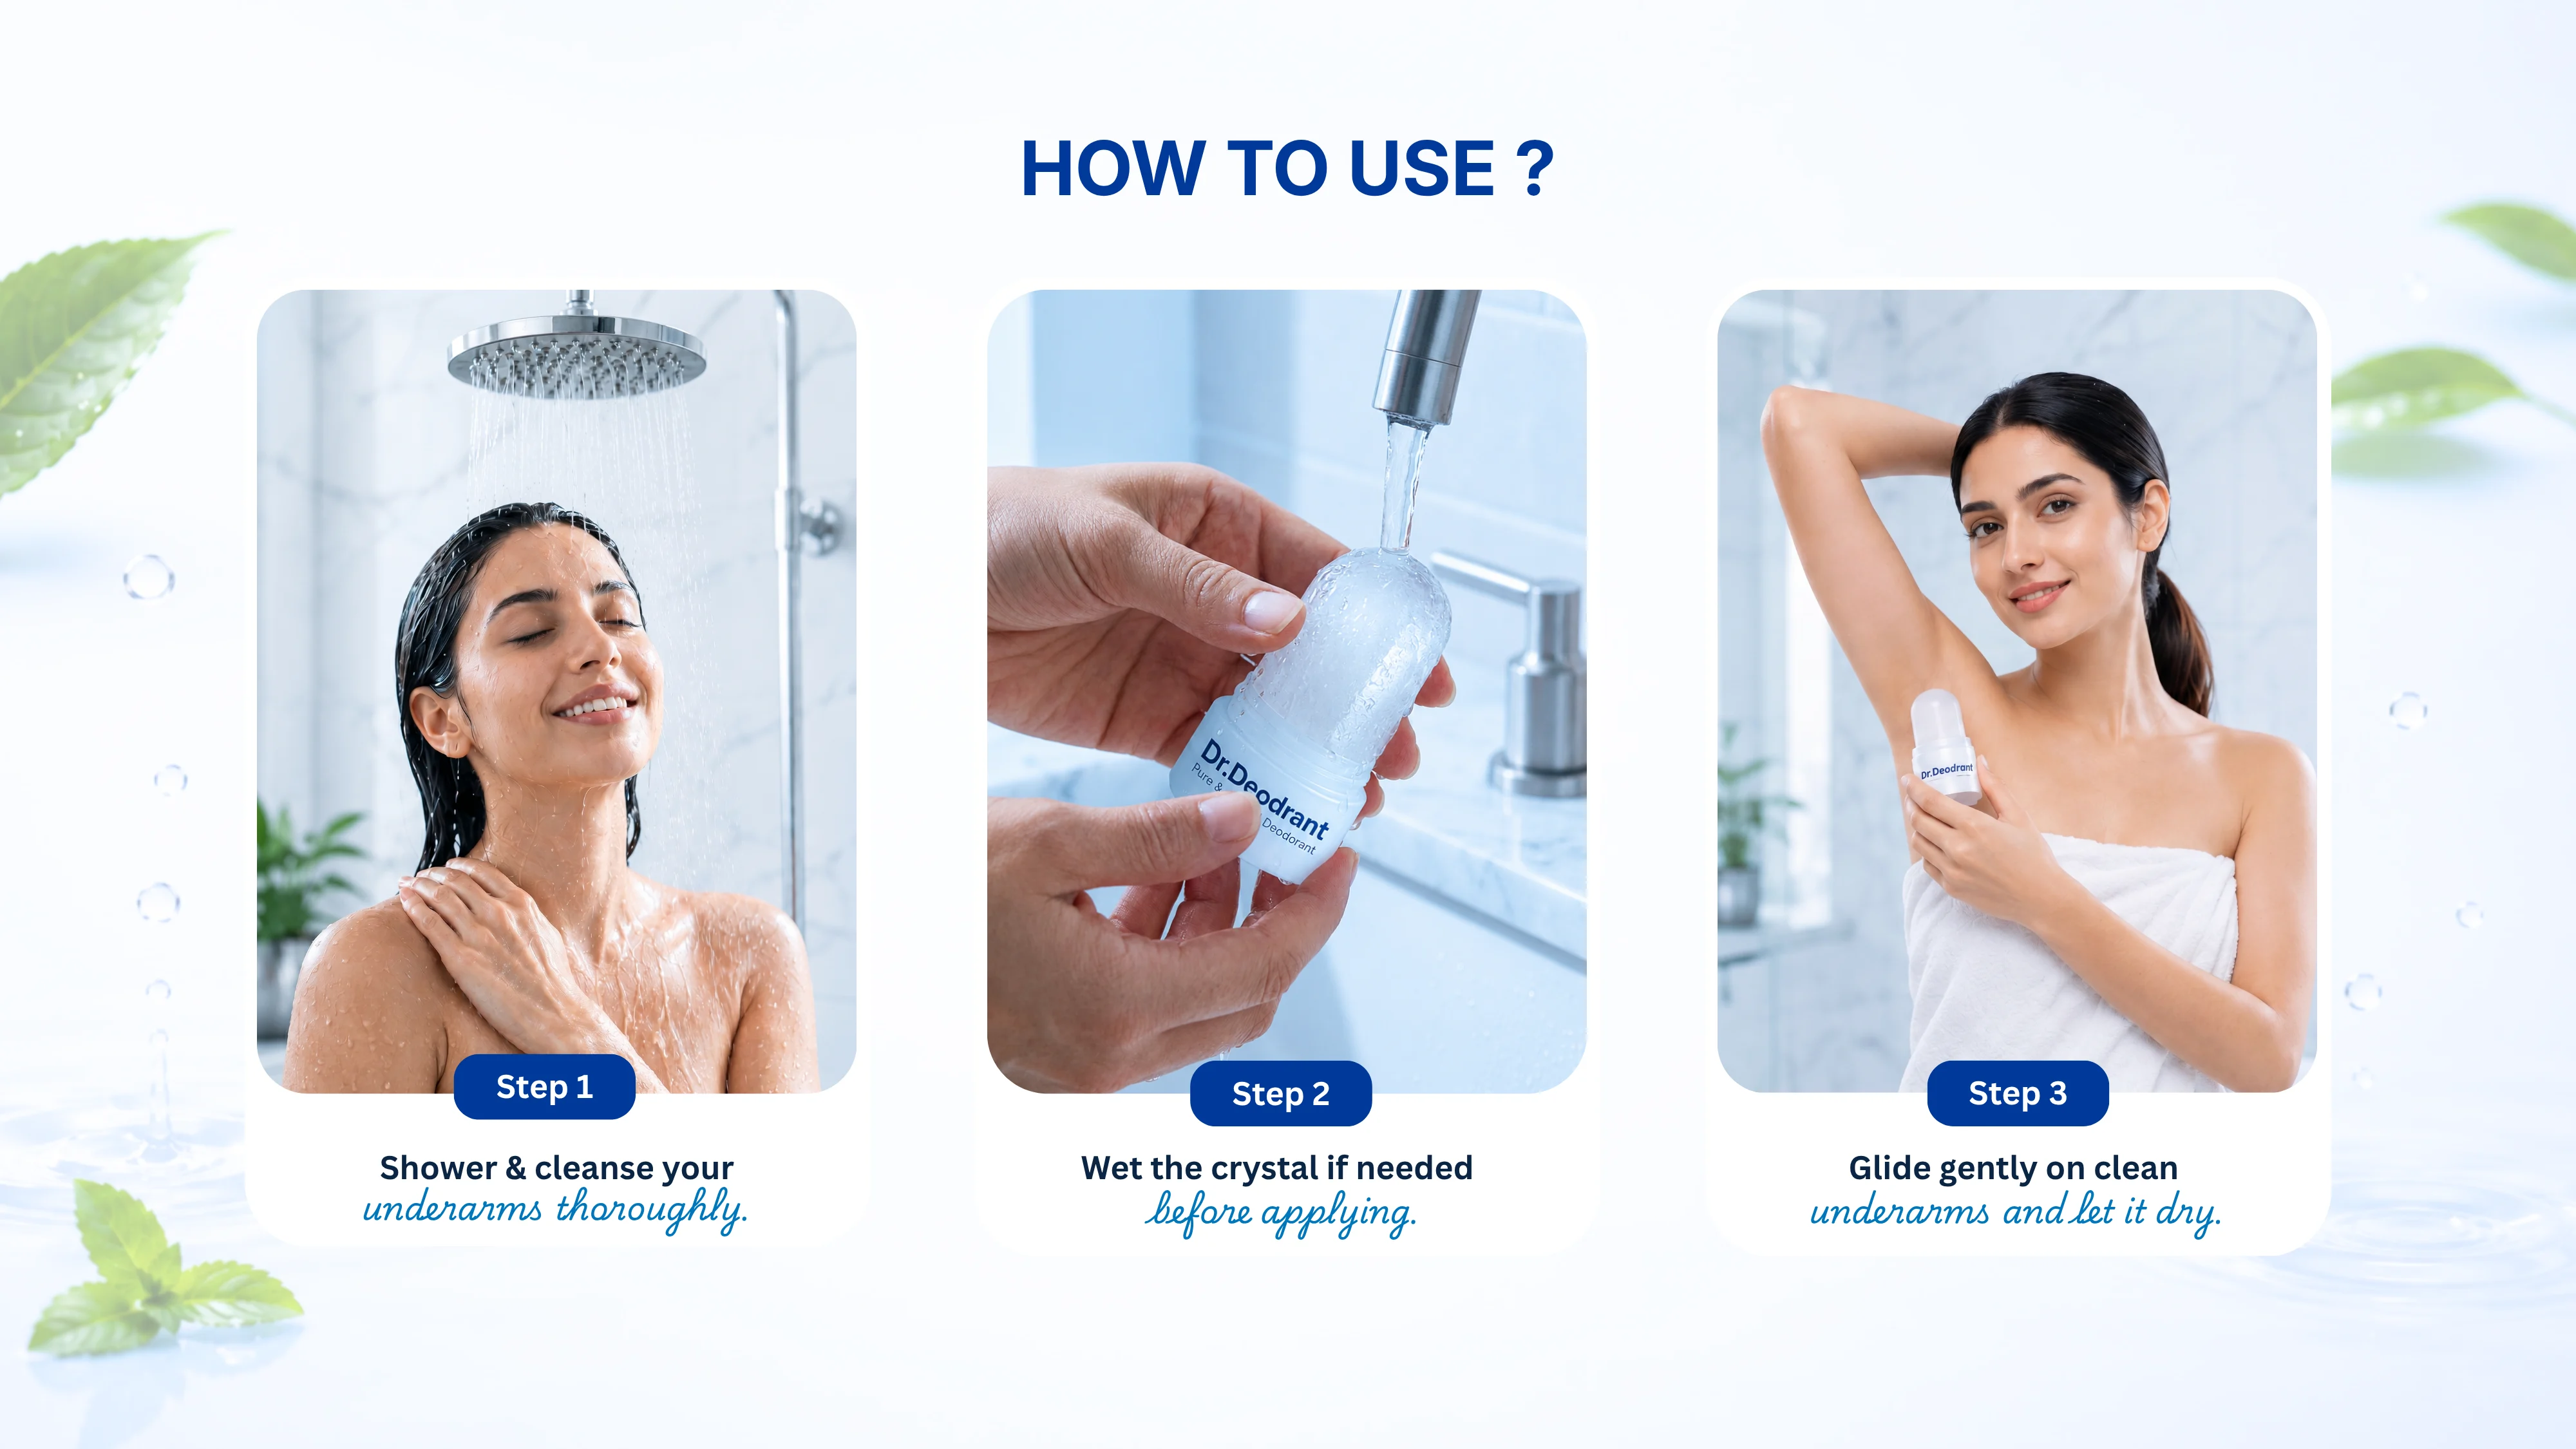
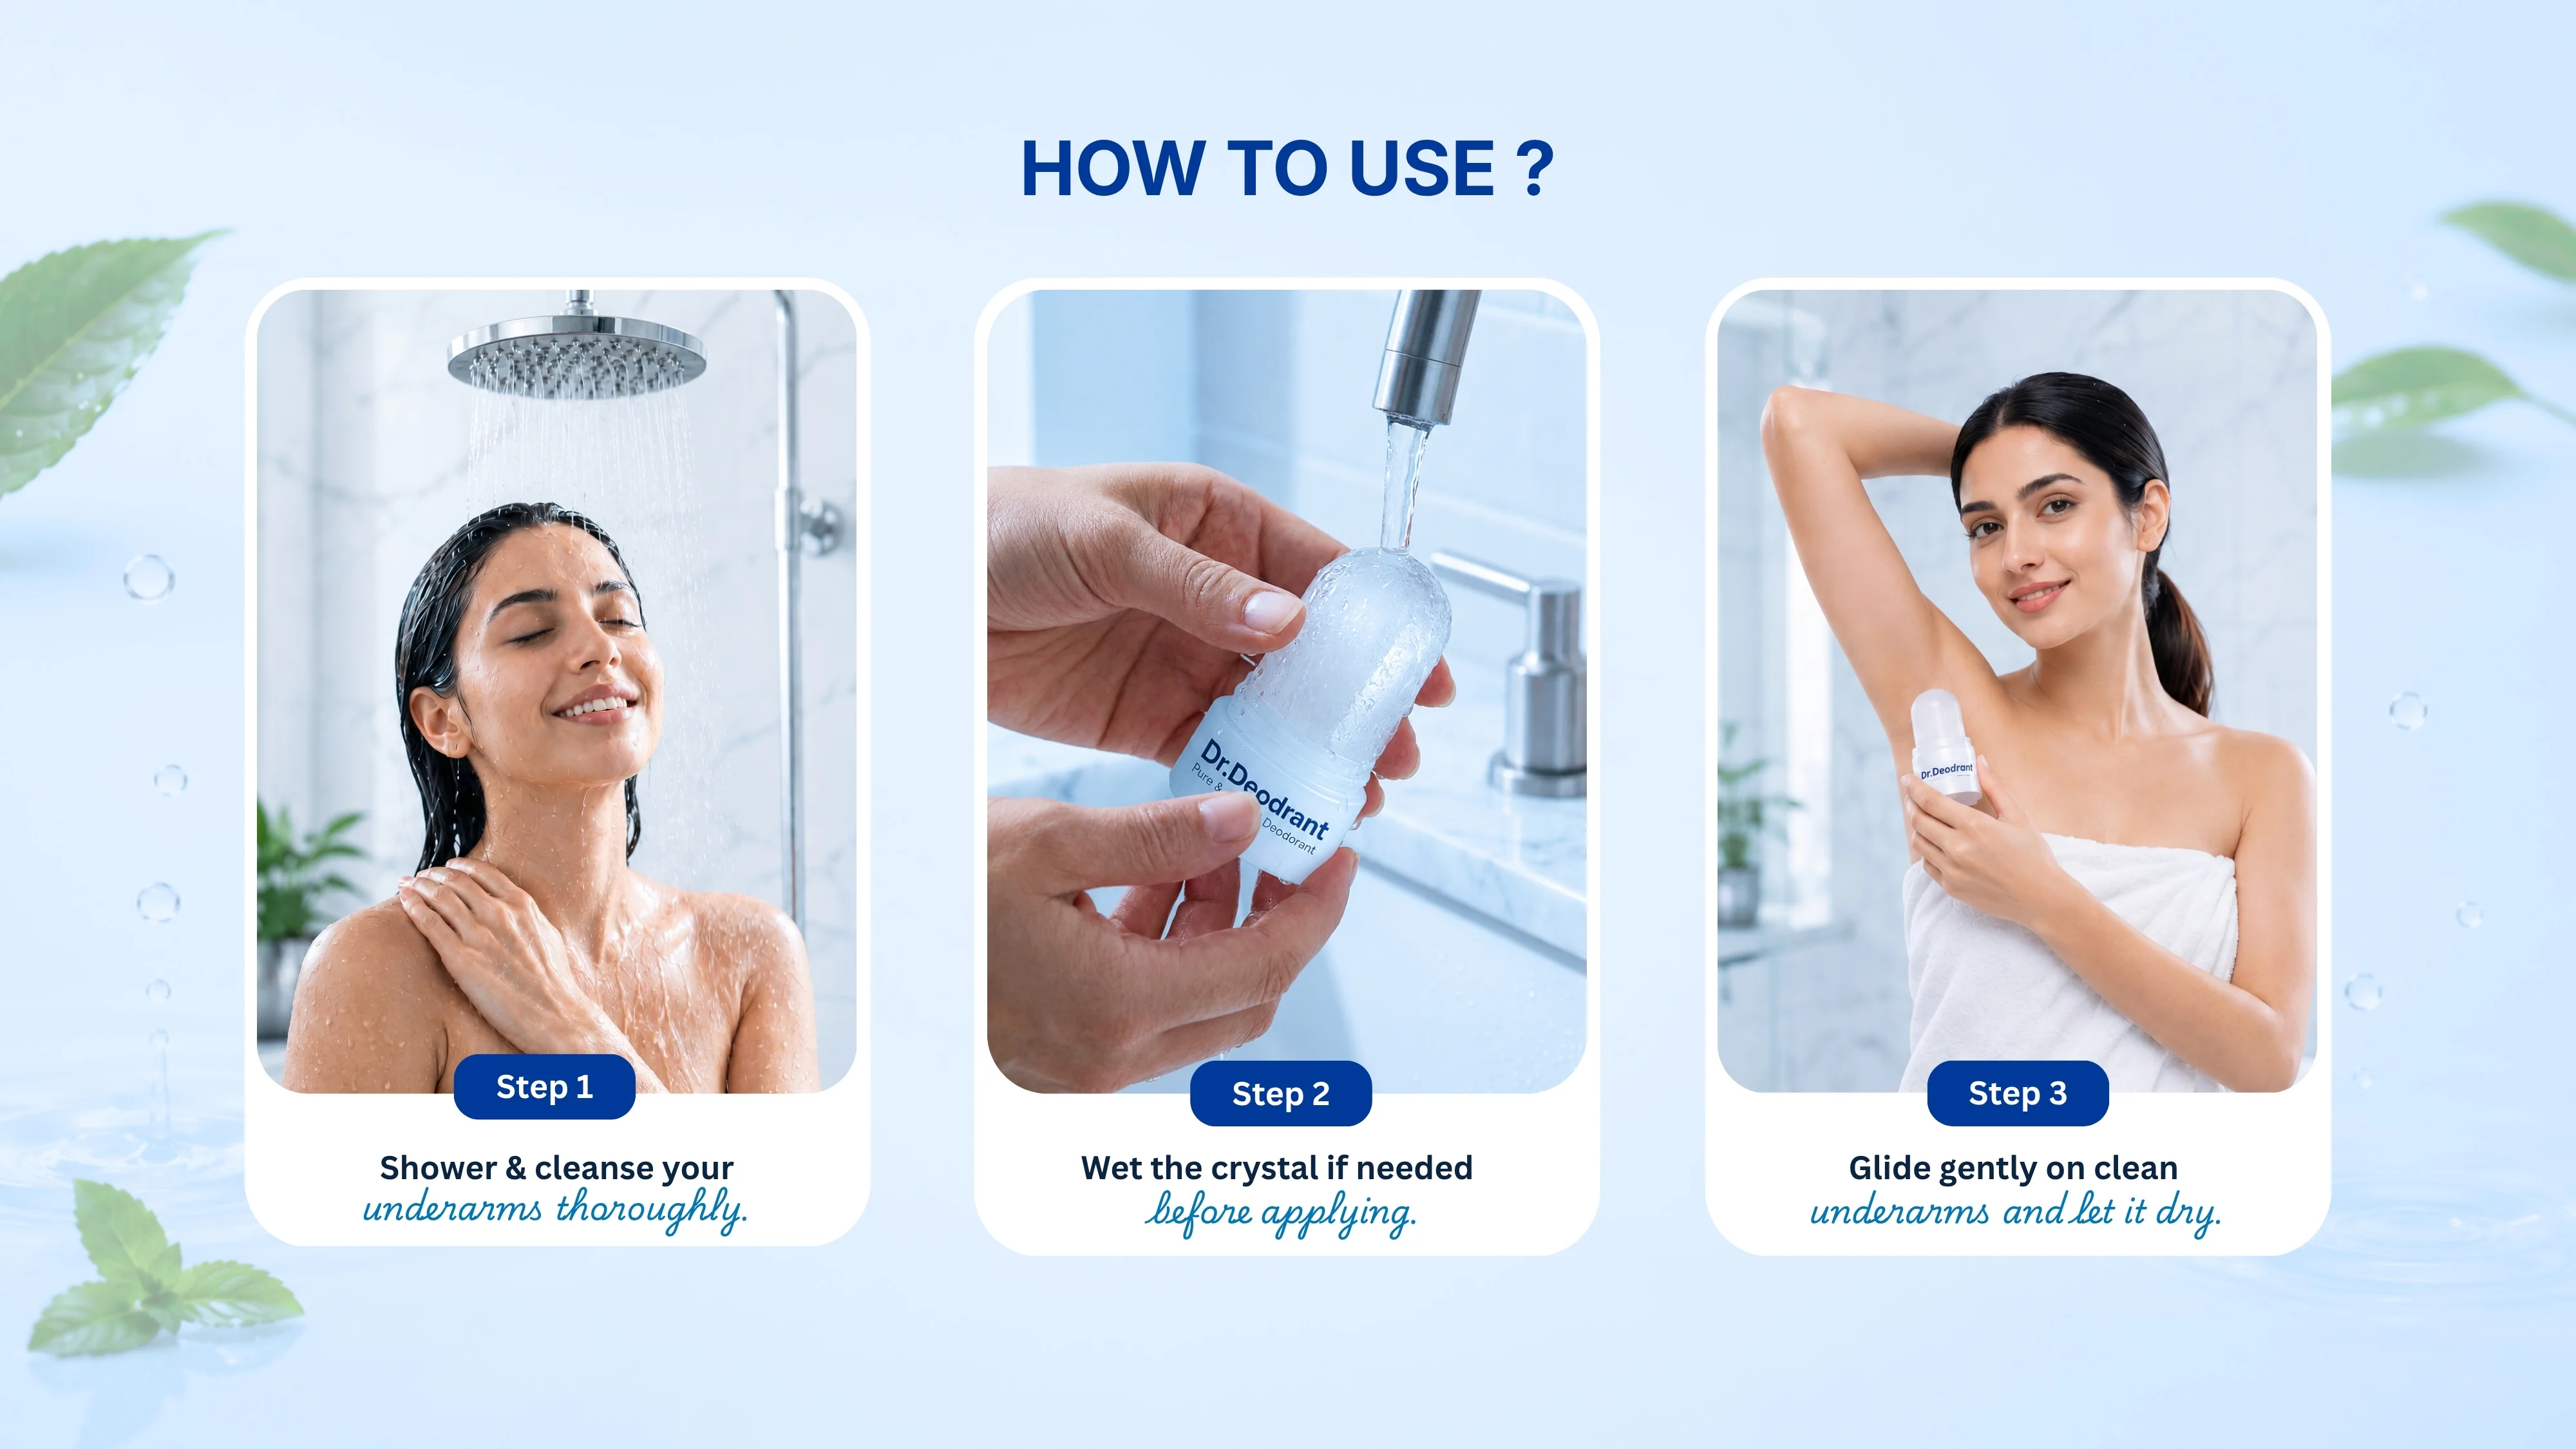
pre-final bugfixes: jun 18

diff --git a/src/components/sections/faq-section.tsx b/src/components/sections/faq-section.tsx
@@ -28,40 +28,40 @@ export function FaqSection() {
   return (
     <section id="faqs" className="w-full bg-[#F5FBFF]">
       <div className="py-24 md:py-32 px-4 sm:px-8 md:px-12 lg:px-16 max-w-7xl mx-auto">
-      <div className="grid grid-cols-1 md:grid-cols-2 gap-12 lg:gap-20 items-start">
-        <div className="space-y-8 sm:space-y-12 order-2 md:order-1 px-4 sm:px-6 md:px-0">
-          <div className="reveal-on-scroll text-center md:text-left">
-            <h2 className="text-3xl sm:text-4xl md:text-5xl font-inter font-bold text-[#003286] leading-tight">All Your Queries Answered.</h2>
-            <p className="text-sm sm:text-base md:text-lg text-gray-600 mt-3 sm:mt-4">Professional answers for your mineral skincare journey.</p>
+        <div className="grid grid-cols-1 md:grid-cols-2 gap-12 lg:gap-20 items-start">
+          <div className="space-y-8 sm:space-y-12 order-2 md:order-1 px-4 sm:px-6 md:px-0">
+            <div className="reveal-on-scroll text-center md:text-left">
+              <h2 className="text-3xl sm:text-4xl md:text-5xl font-inter font-bold text-[#003286] leading-tight">All Your Queries Answered.</h2>
+              <p className="text-sm sm:text-base md:text-lg text-gray-600 mt-3 sm:mt-4">Professional answers for your mineral skincare journey.</p>
+            </div>
+            <div className="reveal-on-scroll">
+              <Accordion className="w-full">
+                {faqs.map((faq, idx) => (
+                  <AccordionItem key={idx} value={`item-${idx}`} className="border-b border-[#003286]/10 py-2">
+                    <AccordionTrigger className="text-[15px] sm:text-lg lg:text-xl font-bold text-gray-600 hover:no-underline hover:text-[#003286] transition-colors text-left pr-2">
+                      {faq.q}
+                    </AccordionTrigger>
+                    <AccordionContent className="text-[14px] sm:text-base text-[#0f1216]/80 leading-relaxed pt-1 pb-4">
+                      {faq.a}
+                    </AccordionContent>
+                  </AccordionItem>
+                ))}
+              </Accordion>
+            </div>
           </div>
-          <div className="reveal-on-scroll">
-            <Accordion className="w-full">
-              {faqs.map((faq, idx) => (
-                <AccordionItem key={idx} value={`item-${idx}`} className="border-b border-[#003286]/10 py-2">
-                  <AccordionTrigger className="text-[15px] sm:text-lg lg:text-xl font-bold text-gray-600 hover:no-underline hover:text-[#003286] transition-colors text-left pr-2">
-                    {faq.q}
-                  </AccordionTrigger>
-                  <AccordionContent className="text-[14px] sm:text-base text-[#0f1216]/80 leading-relaxed pt-1 pb-4">
-                    {faq.a}
-                  </AccordionContent>
-                </AccordionItem>
-              ))}
-            </Accordion>
-          </div>
-        </div>
-        <div className="relative group h-full reveal-on-scroll cursor-pointer w-full max-w-md mx-auto md:max-w-none order-1 md:order-2">
-          <div className="sticky top-24 sm:top-32 rounded-2xl sm:rounded-[2rem] overflow-hidden shadow-2xl flex flex-col items-center text-center justify-center h-[280px] sm:h-[400px] md:h-[500px] lg:h-[600px] w-full">
-            <div className="absolute inset-0 opacity-90">
-              <img 
-                className="w-full h-full object-cover transition-transform duration-700 ease-in-out group-hover:scale-105" 
-                src="/DRDEO11.webp" 
-                alt="Contact" 
-              />
+          <div className="relative group h-full reveal-on-scroll cursor-pointer w-full max-w-md mx-auto md:max-w-none order-1 md:order-2">
+            <div className="sticky top-24 sm:top-32 rounded-2xl sm:rounded-[2rem] overflow-hidden shadow-2xl flex flex-col items-center text-center justify-center h-[280px] sm:h-[400px] md:h-[500px] lg:h-[600px] w-full">
+              <div className="absolute inset-0 opacity-90">
+                <img
+                  className="w-full h-full object-cover transition-transform duration-700 ease-in-out group-hover:scale-105"
+                  src="/DRDEO11.webp"
+                  alt="Support"
+                />
+              </div>
             </div>
           </div>
         </div>
       </div>
-    </div>
     </section>
   );
 }

diff --git a/src/components/Header.tsx b/src/components/Header.tsx
@@ -20,7 +20,7 @@ export default function Header() {
     { name: "Shop", href: "/shop/popular" },
     { name: "Our Story", href: "/story" },
     { name: "Blog", href: "/blog" },
-    { name: "Contact", href: "/contact" },
+    { name: "Support", href: "/contact" },
   ];
 
   const openCart = () => {
@@ -123,22 +123,22 @@ export default function Header() {
         </div>
 
         {/* 👇 CENTER LOGO - NOW ABSOLUTELY POSITIONED FOR PERFECT CENTERING */}
-        <div className="absolute left-1/2 top-1/2 -translate-x-[70%] md:-translate-x-1/2 -translate-y-1/2 flex items-center justify-center z-10">
+        <div className="absolute left-1/2 top-1/2 -translate-x-[55%] md:-translate-x-1/2 -translate-y-1/2 flex items-center justify-center z-10">
           <Link href="/">
             {/* 👇 CHANGED h-15 to h-10 (mobile) and lg:h-12 (desktop) so Tailwind recognizes it */}
-            <img src="/DeDeo-logo.svg" alt="Dr. Deodrant Logo" className="h-8 md:h-10 lg:h-12 w-auto hover:opacity-90 transition-opacity" />
+            <img src="/DeDeo-logo.svg" alt="Dr. Deodrant Logo" className="h-11 md:h-13 lg:h-14 w-auto hover:opacity-90 transition-opacity flex items-center justify0ce" />
           </Link>
         </div>
 
         {/* Right Section Actions (Desktop & Mobile) */}
         <div className="flex items-center gap-4 lg:gap-6 z-10">
-          {/* Account Icon (All Devices) */}
+          {/* Account Icon (Desktop Only) */}
           <a
             href="https://shopify.com/99417162092/account"
-            className={cn("transition-colors hover:opacity-70 flex items-center justify-center", iconClasses)}
+            className={cn("hidden lg:flex transition-colors hover:opacity-70 items-center justify-center", iconClasses)}
             aria-label="Account"
           >
-            <User className="w-5 h-5 sm:w-6 sm:h-6" />
+            <User className="w-12 h-12 sm:w-6 sm:h-6" />
           </a>
 
           {/* [#F5FBFF] Pill Action Button */}
@@ -206,6 +206,18 @@ export default function Header() {
               </Link>
             );
           })}
+
+          {/* Mobile Customer Login */}
+          <a
+            href="https://shopify.com/99417162092/account"
+            onClick={() => setIsOpen(false)}
+            className={cn(
+              "text-base font-bold py-1.5 nav-underline w-fit flex items-center gap-2",
+              "text-[#003286]/80 hover:text-[#003286]"
+            )}
+          >
+            Customer Login
+          </a>
         </div>
         <div className={cn("hidden md:flex flex-col gap-4 pt-4 border-t border-[#F5FBFF]/10")}>
           <a href="tel:+917900160311" className={cn("flex items-center gap-2 text-sm font-medium text-[#003286]/70 hover:text-[#003286]")}>

diff --git a/src/components/sections/footer.tsx b/src/components/sections/footer.tsx
@@ -25,7 +25,7 @@ export function Footer() {
       <div className="bg-[#1b3e79] text-white pt-20 pb-10 px-8 md:px-16 rounded-t-[3rem] md:rounded-t-[5rem]">
         <div className="max-w-7xl mx-auto">
 
-          {/* --- Top Row: Contact Info --- */}
+          {/* --- Top Row: Support Info --- */}
           <div className="grid grid-cols-1 md:grid-cols-2 lg:grid-cols-4 gap-6 md:gap-10 lg:gap-6 pb-10 md:pb-16 border-b border-white/10">
 
             {/* Address */}
@@ -55,7 +55,7 @@ export function Footer() {
             </div>
 
             {/* Call Us */}
-            <div className="flex items-center md:items-start gap-3 md:gap-4 group cursor-pointer">
+            <a href="tel:+917900160311" className="flex items-center md:items-start gap-3 md:gap-4 group cursor-pointer">
               <div className="w-10 h-10 md:w-12 md:h-12 rounded-full border border-white/20 flex items-center justify-center shrink-0 transition-colors duration-300 group-hover:bg-white group-hover:text-[#53606b]">
                 <Phone className="w-4 h-4 md:w-5 md:h-5" strokeWidth={1.5} />
               </div>
@@ -65,10 +65,10 @@ export function Footer() {
                   +91 79001 60311
                 </p>
               </div>
-            </div>
+            </a>
 
             {/* Email */}
-            <div className="flex items-center md:items-start gap-3 md:gap-4 group cursor-pointer">
+            <a href="mailto:[email redacted]" className="flex items-center md:items-start gap-3 md:gap-4 group cursor-pointer">
               <div className="w-10 h-10 md:w-12 md:h-12 rounded-full border border-white/20 flex items-center justify-center shrink-0 transition-colors duration-300 group-hover:bg-white group-hover:text-[#53606b]">
                 <Mail className="w-4 h-4 md:w-5 md:h-5" strokeWidth={1.5} />
               </div>
@@ -78,7 +78,7 @@ export function Footer() {
                   [email redacted]
                 </p>
               </div>
-            </div>
+            </a>
 
           </div>
 
@@ -119,7 +119,7 @@ export function Footer() {
                   { name: 'Home', href: '/' },
                   { name: 'Our Story', href: '/story' },
                   { name: 'Blog', href: '/blog' },
-                  { name: 'Contact', href: '/contact' }
+                  { name: 'Support', href: '/contact' }
                 ].map((link) => (
                   <Link key={link.name} href={link.href} className="text-xs sm:text-sm text-white/70 hover:text-white transition-colors w-fit">
                     {link.name}
@@ -166,19 +166,19 @@ export function Footer() {
             </p>
 
             <div className="flex items-center gap-5">
-              <Link href="#" className="text-white/60 hover:text-white transition-colors">
+              <Link href="#" target="_blank" rel="noopener noreferrer" className="text-white/60 hover:text-white transition-colors">
                 <FontAwesomeIcon icon={faFacebookF} size="lg" />
               </Link>
-              <Link href="#" className="text-white/60 hover:text-white transition-colors">
+              <Link href="https://www.instagram.com/drdeodrant/" target="_blank" rel="noopener noreferrer" className="text-white/60 hover:text-white transition-colors">
                 <FontAwesomeIcon icon={faInstagram} size="lg" />
               </Link>
-              <Link href="#" className="text-white/60 hover:text-white transition-colors">
+              {/* <Link href="#" target="_blank" rel="noopener noreferrer" className="text-white/60 hover:text-white transition-colors">
                 <FontAwesomeIcon icon={faYoutube} size="lg" />
-              </Link>
+              </Link> */}
               {/* Using a custom SVG for TikTok to match the aesthetic since Lucide doesn't have it natively */}
-              <Link href="#" className="text-white/60 hover:text-white transition-colors">
+              {/* <Link href="#" className="text-white/60 hover:text-white transition-colors">
                 <FontAwesomeIcon icon={faTiktok} size="lg" />
-              </Link>
+              </Link> */}
             </div>
           </div>
 

diff --git a/src/components/sections/image-carousel.tsx b/src/components/sections/image-carousel.tsx
@@ -2,7 +2,7 @@
 
 import React, { useState } from "react";
 
-const ImageCarousel = ({ images, title, subtitle }: { images: string[]; title?: string; subtitle?: string }) => {
+const ImageCarousel = ({ images, title, subtitle, bgColor }: { images: string[]; title?: string; subtitle?: string; bgColor?: string }) => {
   const [currentIndex, setCurrentIndex] = useState(0);
 
   const nextSlide = () => {
@@ -41,8 +41,9 @@ const ImageCarousel = ({ images, title, subtitle }: { images: string[]; title?: 
   };
 
   return (
-    <div 
-      className="relative w-full overflow-hidden bg-[#F5FBFF] pb-32"
+    <div
+      className="relative w-full overflow-hidden pt-10 pb-20"
+      style={{ backgroundColor: bgColor || "#F5FBFF" }}
       onTouchStart={onTouchStart}
       onTouchMove={onTouchMove}
       onTouchEnd={onTouchEndHandler}

diff --git a/src/components/sections/hero-section.tsx b/src/components/sections/hero-section.tsx
@@ -136,7 +136,7 @@ export function HeroSection() {
           {/* Secondary Button */}
           <Button
             variant="outline"
-            className="w-36 sm:w-40 lg:w-48 h-10 lg:h-11 border-2 border-[#003286] text-[#003286] bg-transparent px-0 sm:px-3 py-2 rounded-full font-bold text-[10px] sm:text-xs lg:text-sm uppercase tracking-wide hover:bg-[#203652]/95 hover:text-[#F5FBFF] transition-all shadow-lg"
+            className="w-36 sm:w-40 lg:w-48 h-10 lg:h-11 border-2 border-[#003286] text-[#003286] bg-white/40 backdrop-blur-sm sm:bg-transparent sm:backdrop-blur-none px-0 sm:px-3 py-2 rounded-full font-bold text-[10px] sm:text-xs lg:text-sm uppercase tracking-wide hover:bg-[#203652]/95 hover:text-[#F5FBFF] transition-all shadow-lg"
             onClick={() => window.location.href = "/story"}
           >
             Learn The Science

diff --git a/src/app/page.tsx b/src/app/page.tsx
@@ -56,6 +56,7 @@ export default function Home() {
             images={["/Result_1.webp", "/Result_2.webp", "/Result_3.webp"]}
             title="Visible Results, Real Confidence"
             subtitle="Brighter, smoother underarms in just 21 days"
+            bgColor="#eaf5ff"
           />
           <ImageCarousel
             images={["/HTU_1.webp", "/HTU_2.webp", "/HTU_3.webp"]}